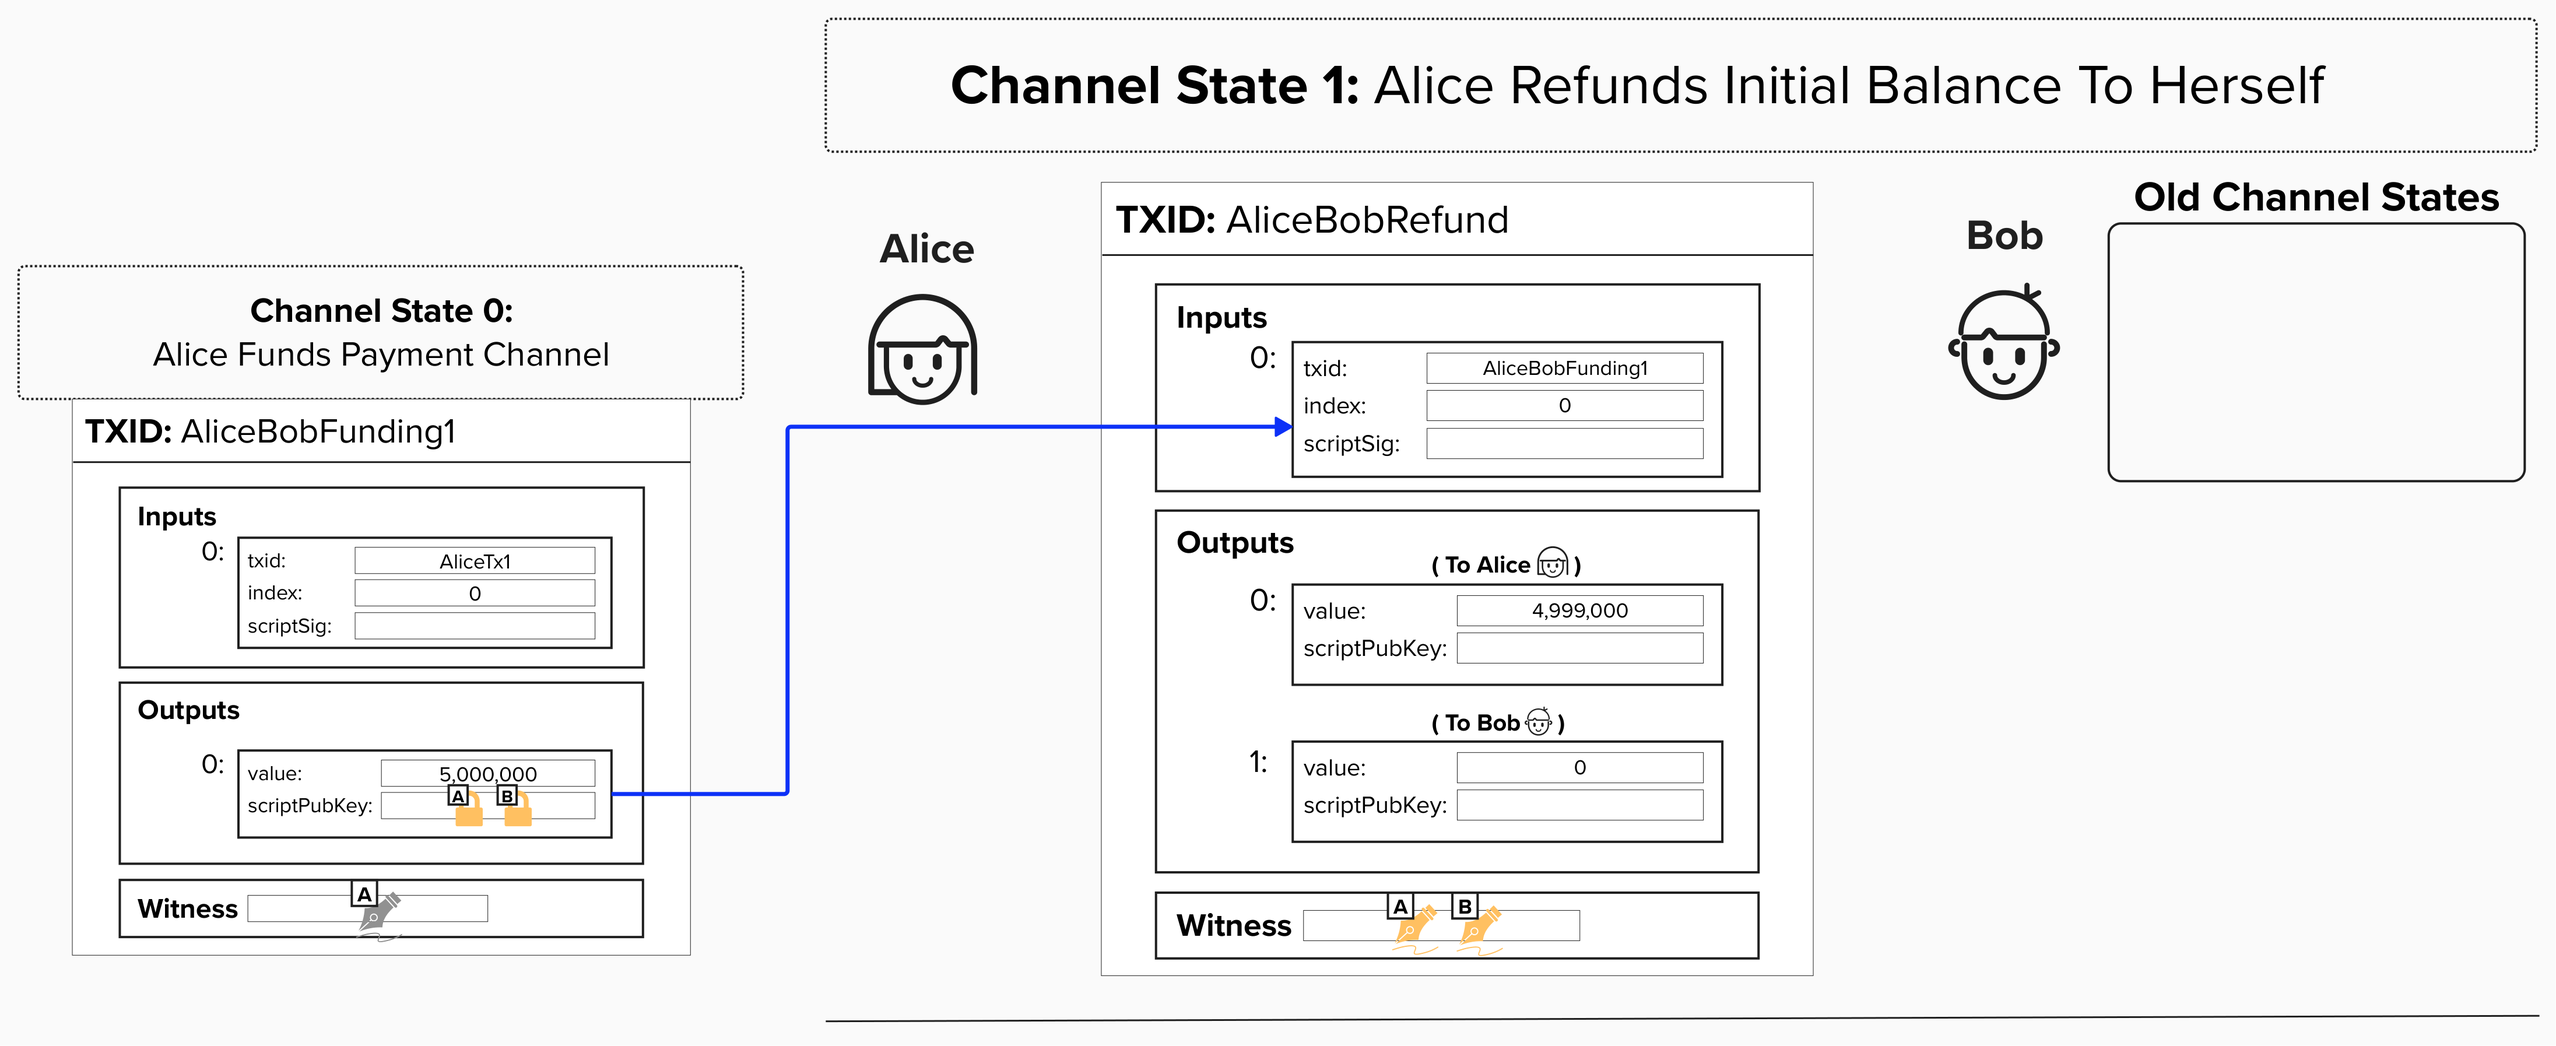
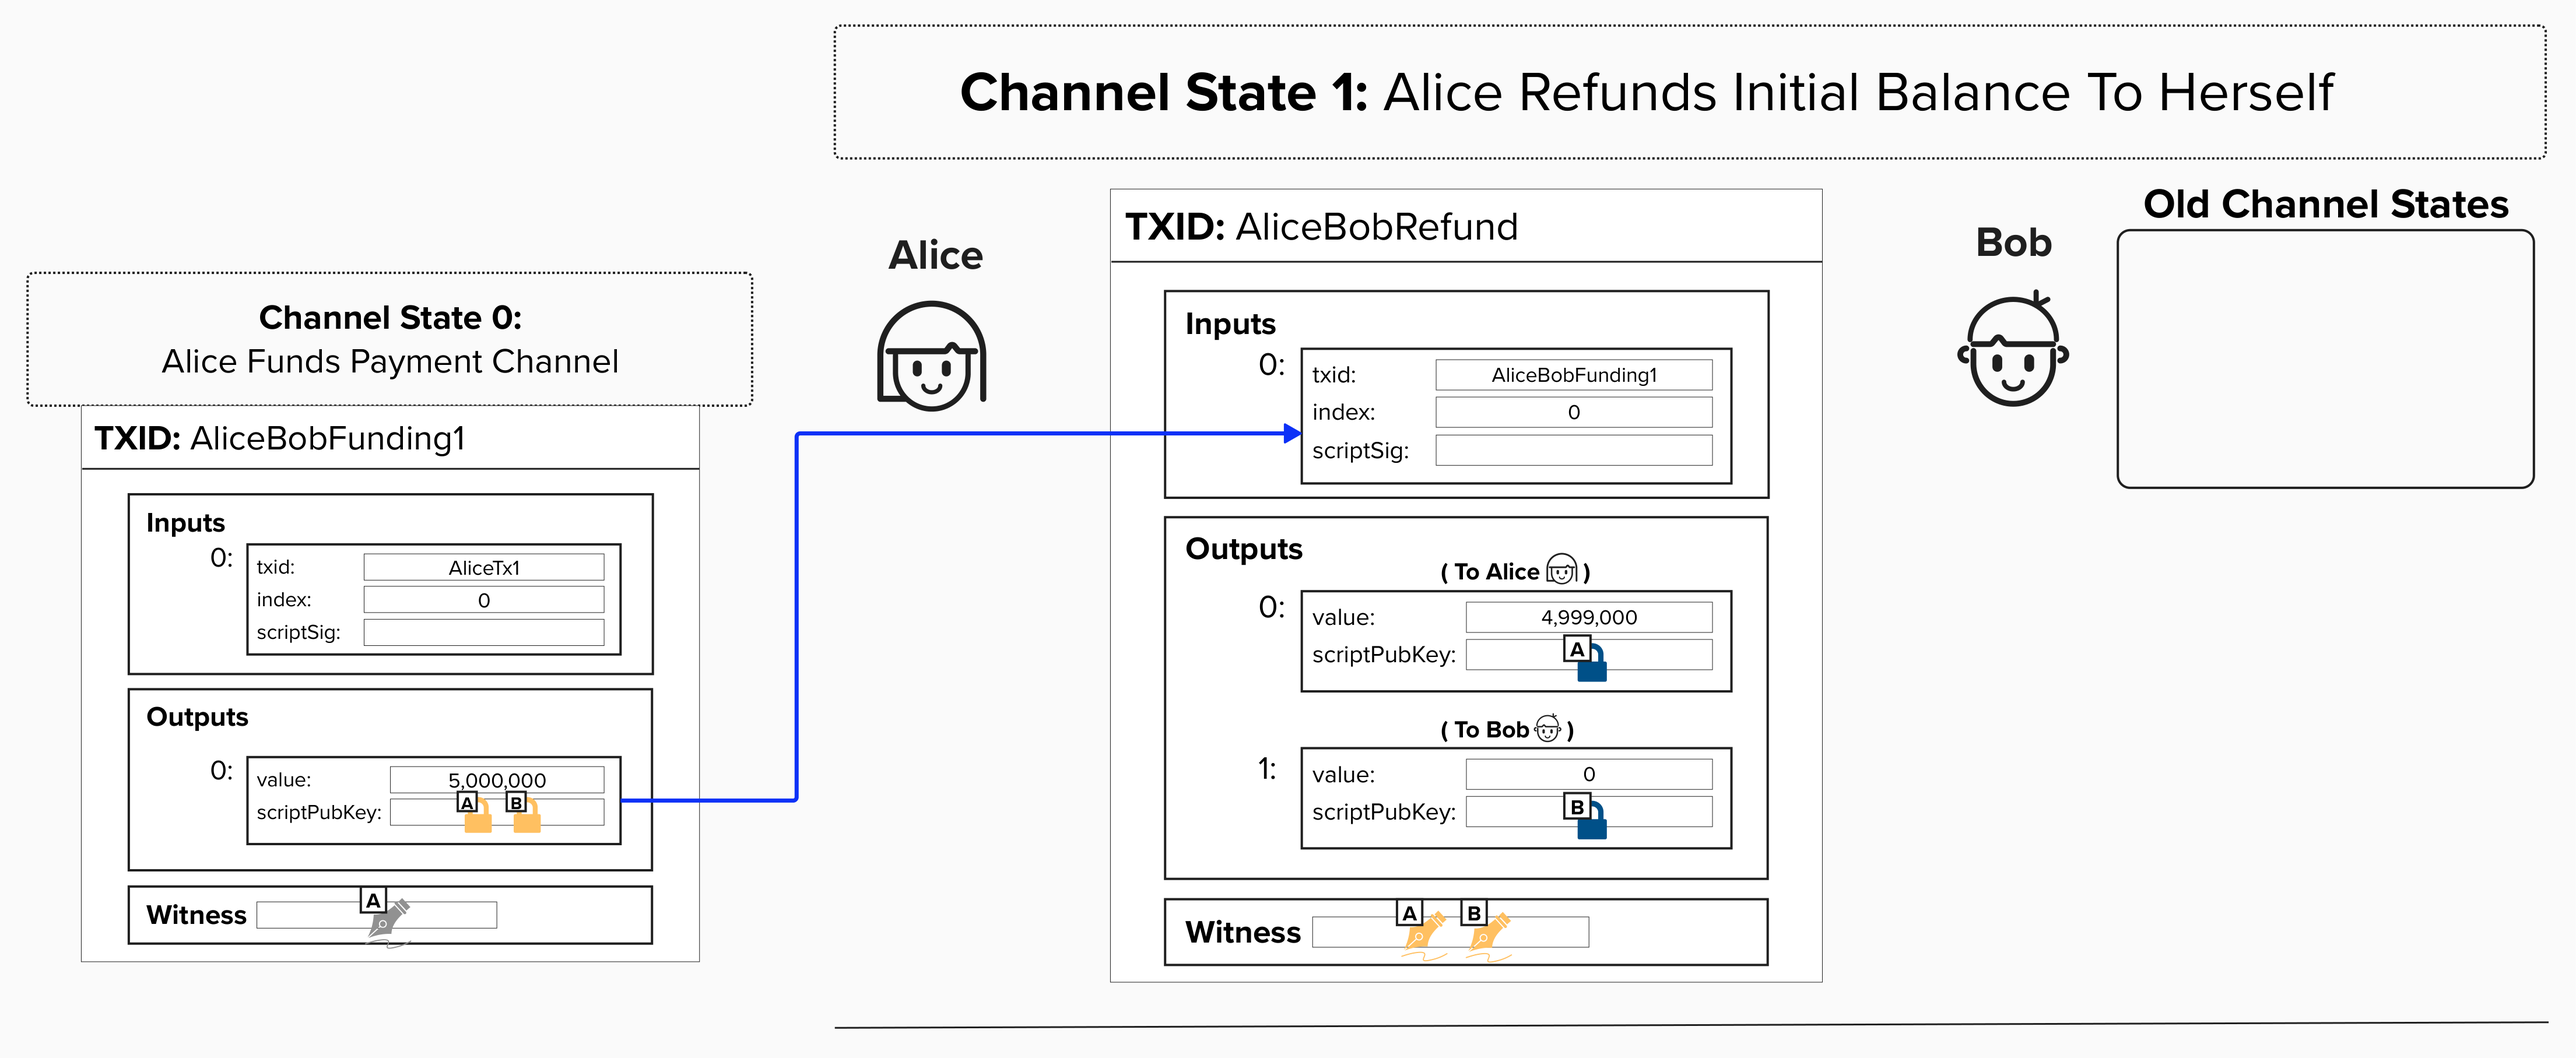
update content

diff --git a/.tutorial/xx6-timeless-payment-channels.md b/.tutorial/xx6-timeless-payment-channels.md
@@ -2,15 +2,13 @@
 
 Okay, bear with me for a little bit! For the next few sections, we'll focus on building our intuition for how Lightning payment channels actually work. Once we have the fundamentals down, we'll get back to coding.
 
-So far, we've learned of one construction for implementing a "refund" for our payment channel. It works, but it's not ideal, as the channel is time-bound. To address this concern, let’s remove the timelock so that our channel doesn't have an arbitrary end date.
+So far, we've learned of one construction for implementing a "refund" for our payment channel. It works, but it's not ideal, as the channel is time-bound. To address this concern, let's remove the timelock so that our channel doesn't have an arbitrary end date.
 
 ## Create A New "Refund" Transaction That Spends From The Funding Transaction
 
-#### ✅ NOTE: This new payment channel construction is actually how Lightning channels work, so we're back on the path to building our own modern channel from the ground up!
+> ✅ **NOTE:** This new payment channel construction is actually how Lightning channels work, so we're back on the path to building our own modern channel from the ground up!
 
-Another approach to ensuring Alice can retrieve her Bitcoin if Bob stops cooporating is to create a new transaction that spends from the funding transaction. This transaction will act as a "refund" transaction, as it will pay each channel member the amount of sats that they currently have at the time of opening the channel.
-
-⚠ **NOTE: The locking conditions (Alice and Bob's `scriptPubKey`) are empty for the moment, but we'll add them back in as we go.**
+Another approach to ensuring Alice can retrieve her Bitcoin if Bob stops cooperating is to create a new transaction that spends from the funding transaction. This transaction will act as a "refund" transaction, as it will pay each channel party the amount of sats that they currently have at the time of opening the channel.
 
 <p align="center" style="width: 50%; max-width: 300px;">
   <img src="./tutorial_images/AliceBobRefund.png" alt="AliceBobRefund" width="100%" height="auto">
@@ -26,27 +24,25 @@ It's vital to note that the refund transaction still needs *both* Alice and Bob'
 
 </details>
 
-</details>
-
 #### Question: For the first channel state, Bob doesn't have any funds on his side of the channel. What should we do with his output?
 <details>
   <summary>Answer</summary>
 
 If we tried creating a transaction with 0 sats for Bob, that would be considered non-standard and would not be relayed. Even if it was possible, it would take up extra space and make our transaction size larger, adding unnecessary fees. Since Bob has no funds on his side of the channel, we have the following two options:
 
-1) **We can create a refund transaction with no output for Bob.**
+1. **We can create a refund transaction with no output for Bob.**
 
-The first option is to ***not*** include an output for Bob. This is often how Lightning payment channels begin in the "real world", as, usually, all of the funds are on one side of the channel when it's opened.  
+The first option is to ***not*** include an output for Bob. This is often how Lightning payment channels begin in the "real world", as all of the funds are typically on one side of the channel when it's opened.  
 
 <p align="center" style="width: 50%; max-width: 300px;">
   <img src="./tutorial_images/AliceRefundV2.png" alt="AliceRefundV2" width="100%" height="auto">
 </p>
 
-2) **We can "push" some sats to Bob's side of the channel at the start.**
+2. **We can "push" some sats to Bob's side of the channel at the start.**
 
-This is done by specifying an amount (in milli satoshis) in the `push_msat` field of the `open_channel` [message](https://github.com/lightning/bolts/blob/master/02-peer-protocol.md#the-open_channel-message). This can be seen as an initial payment that is sent to Bob at channel start. If you're wondering why this field was not present in the visual from earlier, remember - we simplified the `open_channel` message, since we had not yet introduced all the concepts that were required to understand each field.
+This is done by specifying an amount (in milli satoshis) in the `push_msat` field of the `open_channel` [message](https://github.com/lightning/bolts/blob/master/02-peer-protocol.md#the-open_channel-message). This can be seen as an initial payment that is sent to Bob at channel start. If you're wondering why this field was not present in the visual from earlier, remember that we simplified the `open_channel` message since we had not yet introduced all the concepts required to understand each field.
 
-The visuals for the rest of this workshop will be a little smoother if Bob has an output to start, so we'll give him 500 sats because we're nice people. Fun fact, we're choosing 500 sats because it's above the [dust limit](https://github.com/lightning/bolts/blob/master/03-transactions.md#dust-limits). If it were below this, we would not generate an output for Bob, and his output would be considered [**trimmed**](https://github.com/lightning/bolts/blob/master/03-transactions.md#trimmed-outputs).
+The visuals for the rest of this workshop will be a little smoother if Bob has an output to start, so we'll give him 500 sats because we're nice people. Fun fact: we're choosing 500 sats because it's above the [dust limit](https://github.com/lightning/bolts/blob/master/03-transactions.md#dust-limits). If it were below this, we would not generate an output for Bob, and his output would be considered [**trimmed**](https://github.com/lightning/bolts/blob/master/03-transactions.md#trimmed-outputs).
 
 <p align="center" style="width: 50%; max-width: 300px;">
   <img src="./tutorial_images/AliceRefundV3.png" alt="AliceRefundV3" width="100%" height="auto">
@@ -65,12 +61,12 @@ Remember how we ordered our public keys in the 2-of-2 funding transaction such t
 For a more technical answer, note that all signatures generated for *commitment transactions* in the Lightning network will use the `SIGHASH_ALL` flag, indicating that the signature covers all of the inputs and outputs in the transaction. Therefore, if the order of the outputs were to change, it would result in a different signature!
 
 The Lightning network spec (specifically, BOLT 3: [Transaction Output Ordering](https://github.com/lightning/bolts/blob/master/03-transactions.md#transaction-output-ordering)) specifies that outputs should be ordered in the following manner:
-- First, according to their value - smallest first.
+
+- First, according to their value (smallest first).
   - If there is a tie, the output with the lexicographically lesser `scriptpubkey` comes first, then selecting the shorter script (if they differ in length).
   - For HTLC outputs, if there is a tie after sorting via the above, then they are ordered in increasing `cltv_expiry` order.
 
 If some of these words don't make sense, don't worry! We'll cover them later.
-
 
 #### Now that we know how to order our outputs, below is a visual representation of what our new transaction will look like.
 
@@ -80,15 +76,15 @@ If some of these words don't make sense, don't worry! We'll cover them later.
 
 </details>
 
+## Locking To Each Channel Party's Payment Basepoint Public Key
 
-## Imagine If.... We Locked Bitcoin To Each Channel Party's Public Key
-Remember how we left the `scriptPubKey` blank for Bob and Alice? We'll, we'll need these bitcoin to be locked to *something*.
+If you recall from our earlier exercise, when Alice makes payments to Bob, she creates new transactions that lock Bob's funds in an output only he can spend using **Bob's Payment Basepoint**. She also locks her own funds to *her* **Payment Basepoint**, which only she can spend. Since each output is locked to a public key, each output is a **Pay-To-Witness-Public-Key-Hash** (**P2WPKH**) output.
 
-Imagine for a moment that we lock each party's channel balance to their **payment basepoint**, which, if you recall for our earlier key managment exercises, is a public key. For now, it's sufficient to imagine that we simply lock each party's balance by creating a **Pay-To-Witness-Public-Key-Hash** (**P2WPKH**) output.
+> ⚠ **NOTE:** In the actual Lightning Network, we do not lock **both** outputs to the respective channel party's **Payment Basepoint**. However, it's useful to start with this simpler construction as we work towards understanding real Lightning channels.
 
-In the below payment channel construction, Alice will continue to create new bitcoin transactions and send them, along with her signature, to Bob. In the below diagram, the fist channel state represents Alice's refund transaction, which allows her to claim her bitcoin if Bob disappears or refuses to cooperate. The second transaction represents a payment of 1M stats to Bob. As you can see, the sats are deducted from Alice's side of the channel and are now on Bob's side.
+In this payment channel construction, Alice creates new bitcoin transactions and sends them, along with her signature, to Bob. In the diagram below, the first channel state represents Alice's refund transaction, which allows her to claim her bitcoin if Bob disappears or refuses to cooperate. The second transaction represents a payment of 1M sats to Bob. As you can see, the sats are deducted from Alice's side of the channel and now appear on Bob's side.
 
-In Lightning world, these new transactions are called **commitment transactions** because they "commit" to a new channel balance. Alice and Bob can pay each other, effectively, as many times as they would like. When they decide to close the channel, they simply publish the most recent transaction to the Bitcoin network.
+In Lightning, these transactions are called **Commitment Transactions** because they "commit" to a new channel balance. Alice and Bob can pay each other as many times as they'd like. When they decide to close the channel, they simply publish the most recent transaction to the Bitcoin network.
 
 <p align="center" style="width: 50%; max-width: 300px;">
   <img src="./tutorial_images/AliceBobRefundP2WPKH.png" alt="AliceBobRefundP2WPKH" width="100%" height="auto">
@@ -96,22 +92,21 @@ In Lightning world, these new transactions are called **commitment transactions*
 
 ## Security Flaw!
 
-At this point, let's assume that Alice has both the funding transaction and refund transaction, which she needs to claim her funds if Bob disappears. Now, to send a payment, Alice simple creates a new transaction, which spends from the same funding UTXO, but has a different channel balance distribution, representing an exchange of funds. Do you see what security issue this exposes?
+At this point, let's assume that Alice has both the funding transaction and refund transaction, which she needs to claim her funds if Bob disappears. As we learned, to send a payment, Alice simply creates a new transaction that spends from the same funding UTXO with a different channel balance distribution, representing an exchange of funds. Do you see what security issue this exposes?
 
 <details>
   <summary>Answer</summary>
 
-Since each commitment transaction is a valid transaction that can be broadcasted to the Bitcoin network at any time, there is nothing stopping Alice from broadcasting the refund transaction and claiming the full refund transaction's balance! For example, she could make an **off-chain** payment to Bob and then publish her **on-chain** refund transaction. Once she does this, the 2-of-2 multisig UTXO that supports the entire channel would have been "spent", rendering the rest of the **off-chain** transactions unspendable.
+Since each commitment transaction is a valid transaction that can be broadcast to the Bitcoin network at any time, there is nothing stopping Alice from broadcasting the refund transaction and claiming the entire refund balance! For example, she could make an **off-chain** payment to Bob and then publish her refund transaction **on-chain**. Once she does this, the 2-of-2 multisig UTXO that supports the entire channel would be "spent", rendering the rest of the **off-chain** transactions unspendable.
 
-To mitigate this, we need to figure out a way to "cancel" old committment transactions.
+To mitigate this, we need to figure out a way to "cancel" old commitment transactions.
 
 <p align="center" style="width: 50%; max-width: 300px;">
   <img src="./tutorial_images/RefundRevoked.png" alt="RefundRevoked" width="80%" height="auto">
 </p>
 
-Unfortunately, there is no way to cancel or invalidate a bitcoin transaction after its been created, so we need to come up with a clever way to *disincentivize* Alice and Bob from broadcastnig old transactions.
+Unfortunately, there is no way to cancel or invalidate a bitcoin transaction after it's been created, so we need to come up with a clever way to *disincentivize* Alice and Bob from broadcasting old transactions.
 
-Think back to our story of Alice and Bob splitting cake! **Is there a way to disincenivize cheating such that we can punish someone who publishes an old transaction?** See if you can think of something! 
+Think back to our story of Alice and Bob splitting cake! **Is there a way to disincentivize cheating such that we can punish someone who publishes an old transaction?** See if you can think of something! 
 
 </details>
-

diff --git a/.tutorial/xx5-refund-transaction.md b/.tutorial/xx5-refund-transaction.md
@@ -1,23 +1,26 @@
 # Refund the Channel
 
-If Bob becomes unresponsive or stops cooperating with Alice, then Alice won't be able to retrieve her funds from the funding transaction! Therefore, she needs to have a backup plan. This "backup plan" is often referred to as the capability to "exit" an off-chain system. Ideally, Alice (or any user) should be able to "unilaterally exit", meaning that they do not need another party's cooperation to claim their funds on-chain.
+If Bob becomes unresponsive or stops cooperating, Alice won't be able to retrieve her funds from the funding transaction! She needs a backup plan. In off-chain systems, this backup plan is often called the ability to "exit". Ideally, Alice should be able to **unilaterally exit**, meaning she can claim her funds on-chain without needing Bob's cooperation.
 
 ## Use Multiple Spending Paths and Timelocks
-#### ⚠ The "Multiple Spending Paths and Timelocks" protocol is not how Lightning actually works. That said, it's a simpler payment channel construction, and it's a helpful starting point as we work towards a modern Lightning channel.
+
+> ⚠ The "Multiple Spending Paths and Timelocks" protocol is not how Lightning actually works. That said, it's a simpler payment channel construction, and it's a helpful starting point as we work towards a modern Lightning channel.
 
 There are different ways to implement the ability to "refund" a channel balance. One approach is to **use multiple spending paths** and **timelocks** to ensure that the channel balance can be refunded to Alice if something goes wrong. For example, we can implement the following spending paths:
 
-1) The first spending path checks to see if both Aice's and Bob's signatures are provided. If so, that is sufficient to satisfy the conditions on this output and spend the funds. Nice!
-2) If not, we can check if a relative timelock has passed since this transaction was confirmed on chain. For example, we could add a condition that says, if 2016 blocks (~2 weeks) have passed since the funding transaction was confirmed, then Alice can spend this output to herself. **This would act as Alice "refunding" her channel balance.**
+1. The first spending path checks if both Alice's and Bob's signatures are provided. If so, that is sufficient to satisfy the conditions on this output and spend the funds. Nice!
+
+2. If not, we can check if a relative timelock has passed since this transaction was confirmed on chain. For example, we could add a condition that says: if 2016 blocks (~2 weeks) have passed since the funding transaction was confirmed, then Alice can spend this output to herself. **This would act as Alice "refunding" her channel balance.**
 
 <p align="center" style="width: 50%; max-width: 300px;">
   <img src="./tutorial_images/simple_funding.png" alt="simple_funding" width="100%" height="auto">
 </p>
 
 #### Question: What downside did the introduction of timelocks create?
+
 <details>
   <summary>Answer</summary>
-  
+
 By adding a timelock to our funding output, we essentially add an arbitrary end date to our channel, meaning it has a limited lifetime. Bob must close the channel before the timelock expires. Otherwise, Alice can take all of her funds back using the refund spending path. Ouch!
 
 </details>

diff --git a/.tutorial/xx7-revocable-transactions.md b/.tutorial/xx7-revocable-transactions.md
@@ -1,4 +1,4 @@
-# Penalty Mechanism
+# Adding A Penalty Mechanism For Cheating
 
 A **penalty mechanism** is a rule or process designed to deter undesirable behavior by imposing negative consequences on  entities that violate the rules.
 
@@ -11,7 +11,7 @@ Think back to our fairness protocol example from earlier. If Alice attempted to 
 
 Within the context of commitment transactions, we can incentivize good behavior by adding the following penalty mechanism:
 
-### If you publish an old commitment transaction, your counterparty is allowed to claim all of your funds.
+> ### If you publish an old commitment transaction, your counterparty is allowed to claim all of your funds.
 
 To enforce this rule, we can add an additional spending path to the output such that, if Alice attempts to cheat by publishing an old channel state, Bob can claim all of her funds.
 
